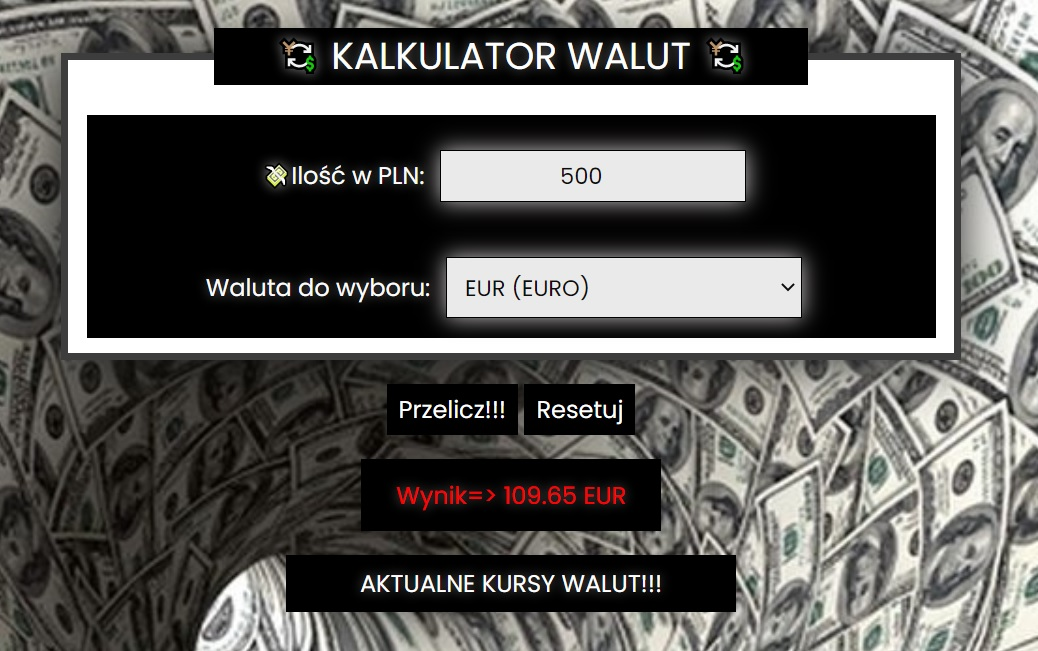
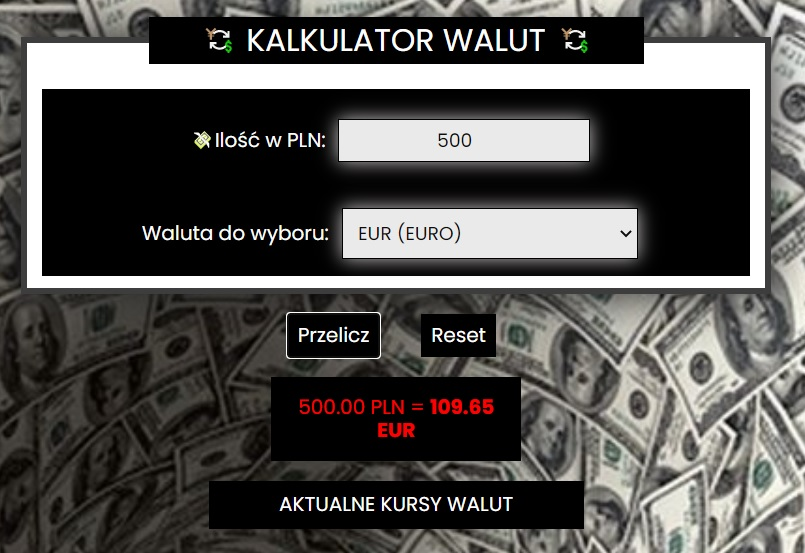
big update in html, css and js

diff --git a/js/script.js b/js/script.js
@@ -1,53 +1,62 @@
-let form = document.querySelector(".js-form");
-let formInput = document.querySelector(".js-form__input");
-let formSelect = document.querySelector(".js-form__select");
-let paragraph = document.querySelector(".js-form__result");
-
-form.addEventListener("submit", (event) => {
-    event.preventDefault();
-
-    let euroRate = 4.56;
-    let poundRate = 5.29;
-    let usdRate = 3.80;
-    let kronenRate = 0.46;
-    let kronesRate = 0.45;
-    let frankRate = 4.13;
-
-    let rates = formInput.value;
-    let currency = formSelect.value;
-
-    let resultAmount;
-    let resultSentence = "Wynik=>";
-
-    switch (currency) {
-        case "EUR":
-            resultAmount = (rates / euroRate).toFixed(2);
-            paragraph.innerText = `${resultSentence} ${resultAmount} EUR`;
-            break;
-        case "GBP":
-            resultAmount = (rates / poundRate).toFixed(2);
-            paragraph.innerText = `${resultSentence} ${resultAmount} GBP`;
-            break;
-        case "USD":
-            resultAmount = (rates / usdRate).toFixed(2);
-            paragraph.innerText = `${resultSentence} ${resultAmount} USD`;
-            break;
-        case "NOK":
-            resultAmount = (rates / kronenRate).toFixed(2);
-            paragraph.innerText = `${resultSentence} ${resultAmount} NOK`;
-            break;
-        case "SEK":
-            resultAmount = (rates / kronesRate).toFixed(2);
-            paragraph.innerText = `${resultSentence} ${resultAmount} SEK`;
-            break;
-        case "CHF":
-            resultAmount = (rates / frankRate).toFixed(2);
-            paragraph.innerText = `${resultSentence} ${resultAmount} CHF`;
-            break;
-        default:
-            paragraph.innerText = "ERROR!!!";
+{
+    const welcome = () => {
+        console.log("Hello developers!");
     }
-    form.addEventListener("reset", () => {
-        paragraph.innerText = "Wynik=>";
-    });
-});
+
+    const calculateResult = (amount, currency) => {
+        const rateEUR = 4.56;
+        const rateGBP = 5.29;
+        const rateUSD = 3.80;
+        const rateNOK = 0.46;
+        const rateSEK = 0.45;
+        const rateCHF = 4.13;
+
+        switch (currency) {
+            case "EUR":
+                return amount / rateEUR;
+            case "GBP":
+                return amount / rateGBP;
+            case "USD":
+                return amount / rateUSD;
+            case "NOK":
+                return amount / rateNOK;
+            case "SEK":
+                return amount / rateSEK;
+            case "CHF":
+                return amount / rateCHF;
+        }
+    };
+
+    const updateResultText = (amount, result, currency,) => {
+        const resultElement = document.querySelector(".js-result");
+        resultElement.innerHTML = `${amount.toFixed(2)} PLN = <strong>${result.toFixed(2)} ${currency}</strong>`;
+    };
+
+    const onFormSubmit = (event) => {
+        event.preventDefault();
+
+        const amountElement = document.querySelector(".js-amount");
+        const currencyElement = document.querySelector(".js-currency");
+
+        const amount = +amountElement.value;
+        const currency = currencyElement.value;
+
+        const result = calculateResult(amount, currency);
+
+        updateResultText(amount, result, currency);
+    };
+
+    const init = () => {
+        const formElement = document.querySelector(".js-form");
+
+        formElement.addEventListener("submit", onFormSubmit);
+
+        formElement.addEventListener("reset", () => {
+            resultElement.innerText = "Wynik";
+        });
+
+        welcome();
+
+    }
+    init();
+}

diff --git a/index.html b/index.html
@@ -4,11 +4,10 @@
     <meta charset="UTF-8">
     <meta http-equiv="X-UA-Compatible" content="IE=edge">
     <meta name="viewport" content="width=device-width, initial-scale=1.0">
-    <title> 🤑 kalkulator walut 🤑 </title>
+    <title>🤑 kalkulator walut 🤑</title>
     <link rel="stylesheet" href="https://cdnjs.cloudflare.com/ajax/libs/normalize/8.0.1/normalize.min.css"
         integrity="sha512-NhSC1YmyruXifcj/KFRWoC561YpHpc5Jtzgvbuzx5VozKpWvQ+4nXhPdFgmx8xqexRcpAglTj9sIBWINXa8x5w=="
         crossorigin="anonymous" />
-    <link href="css/container.css" rel="stylesheet">
     <link href="css/form.css" rel="stylesheet">
     <link href="css/defaul.css" rel="stylesheet">
     <script defer src="js/script.js"></script>
@@ -24,33 +23,35 @@
             <fieldset class="form__frame">
                 <label>
                     <span class="form__labelText">💸Ilość w PLN:</span>
-                    <input step="any" min="0" class="form__field js-form__input" type="number" required
-                        placeholder="PLN">
+                    <input step="any" min="0" class="form__field js-amount" type="number" required placeholder="PLN">
                 </label>
             </fieldset>
             <fieldset class="form__frame">
                 <label>
                     <span class="form__labelText">Waluta do wyboru:</span>
-                    <select class="form__field js-form__select" required>
-                        <option value=""> Wybierz walutę </option>
+                    <select class="form__field js-currency" required>
                         <option value="EUR">EUR (EURO)</option>
                         <option value="GBP">GBP (FUNT BRYTYJSKI)</option>
                         <option value="USD">USD (DOLAR USA)</option>
                         <option value="NOK">NOK (KORONA NORWESKA)</option>
-                        <option value="SEK">NOK (KORONA SZWEDZKA)</option>
+                        <option value="SEK">SEK (KORONA SZWEDZKA)</option>
                         <option value="CHF">CHF (FRANK)</option>
                     </select>
                 </label>
             </fieldset>
         </fieldset>
-        <p>
-            <button class="form__button js-form__submit" type="submit">Przelicz!!!</button>
-            <button class="form__button js-form__reset" type="reset">Resetuj</button>
-        </p>
-        <p class="form__paragraph js-form__result">Wynik =></p>
+        <div class="form__buttons">
+            <p>
+                <button class="form__button" type="submit">Przelicz</button>
+            </p>
+            <p>
+                <button class="form__button" type="reset">Reset</button>
+            </p>
+        </div>
+        <p class="form__paragraph js-result">Wynik</p>
         <footer>
             <p>
-                <a class="form__footer" href="https://mybank.pl/kursy-walut/">AKTUALNE KURSY WALUT!!!</a>
+                <a class="form__footer" href="https://mybank.pl/kursy-walut/">AKTUALNE KURSY WALUT</a>
             </p>
         </footer>
 

diff --git a/css/form.css b/css/form.css
@@ -59,6 +59,12 @@
     margin: 0 auto;
 }
 
+.form__buttons {
+    display: grid;
+    grid-template-columns: 100px 100px;
+    justify-content: center;
+}
+
 .form__button {
     padding: 8px;
     background-color: rgb(0, 0, 0);

diff --git a/README.md b/README.md
@@ -18,11 +18,11 @@ You can convert from PLN to:
 
 ### INSTRUCTION:
 
-When you want to convert PLN to e.g. Euro, you have to enter the value of your money in the PLN field, then select the Euro currency and click "Przelicz !!!".
+When you want to convert PLN to e.g. Euro, you have to enter the value of your money in the PLN field, then select the Euro currency and click "Przelicz".
 
 The result will appear in red in the field "Wynik =>"
 If you want to re-transfer, click "Resetuj". 
 
-You can also see the current exchange rates by clicking on the bottom "AKTUALNE KURSY WALUT!!!"
+You can also see the current exchange rates by clicking on the bottom "AKTUALNE KURSY WALUT"
 
 ### 😀 Thank you for using my currency calculator! 😀
